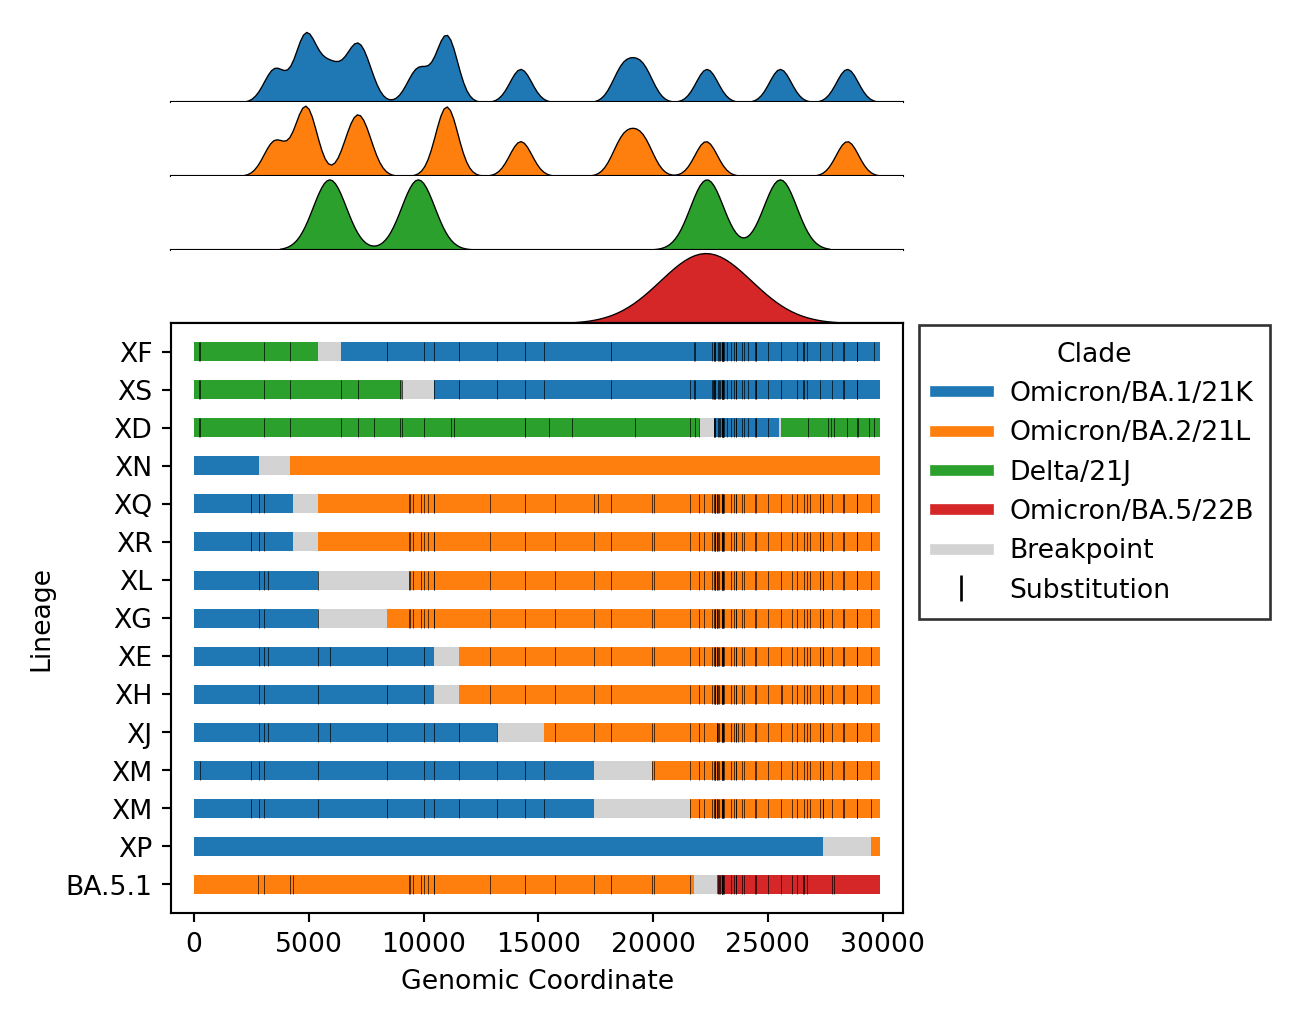
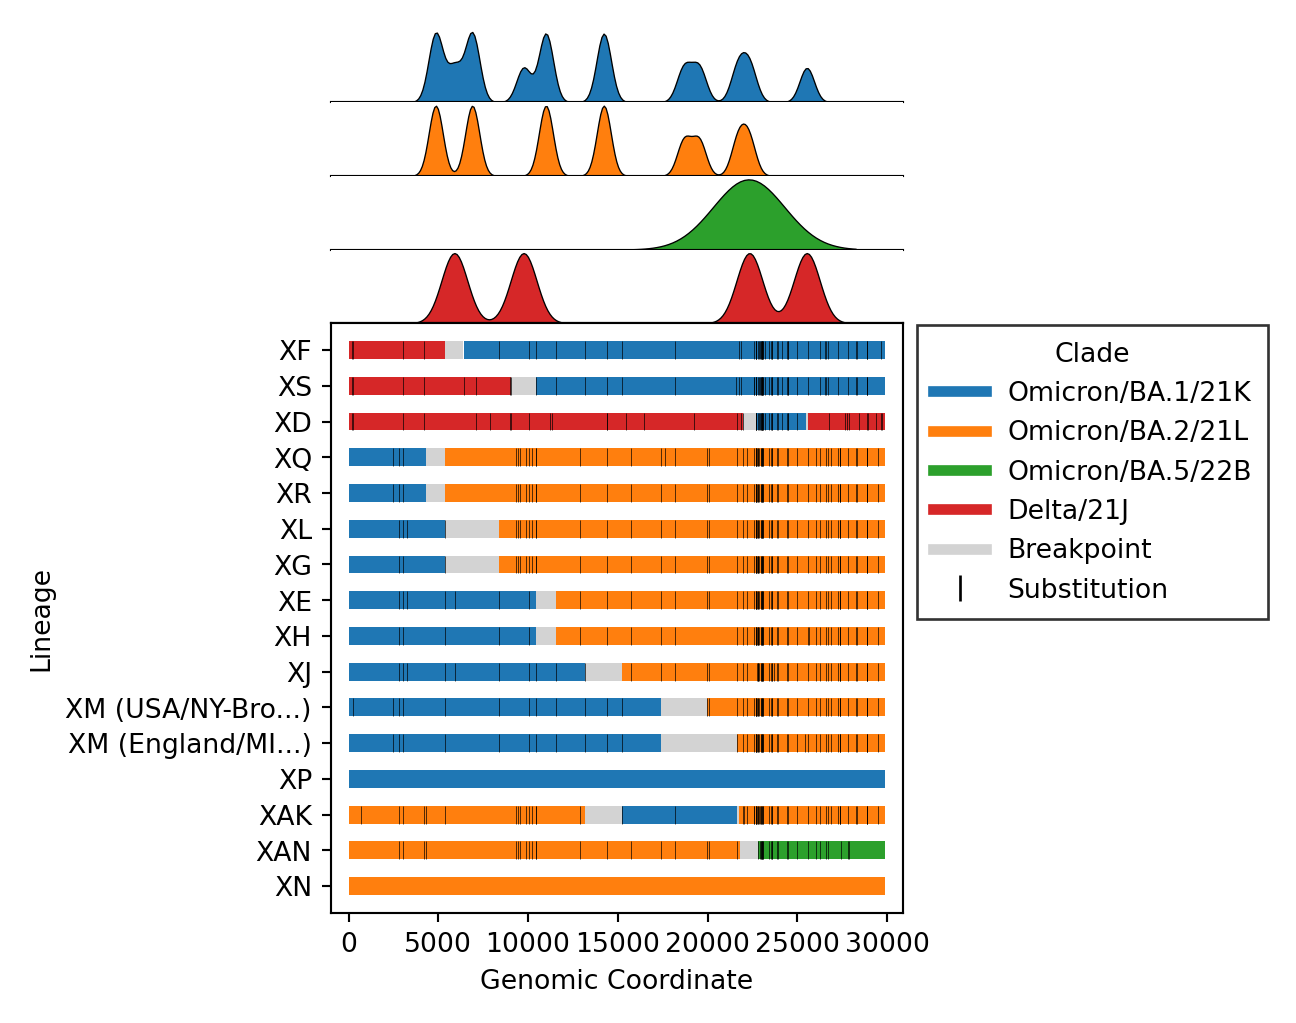
docs: update README and images

diff --git a/README.md b/README.md
@@ -13,8 +13,24 @@ SARS-CoV-2 recombinant sequence detection inspired by [nextstrain/ncov](https://
 
 1. Align sequences and perform clade/lineage assignments with [Nextclade](https://github.com/nextstrain/nextclade).
 1. Identify parental clades and plot recombination breakpoints with [sc2rf](https://github.com/lenaschimmel/sc2rf).
-1. Phylogenetically place recombinant sequences with [UShER](https://github.com/yatisht/usher).
-1. Create spreadssheets and powerpoint slides for reporting.
+1. Create tables, plots, and powerpoint slides for reporting.
+
+A recombinant lineage is defined as a group of sequences with a unique combination of:
+
+- lineage assignment (ex. `XM`)
+- parental clades (ex. `Omicron/21K,Omicron/21L`)
+- parental lineages (ex. `BA.1.1,BA.2.12.1`)
+- breakpoints (ex. `17411:21617`)
+
+Novel recombinants (i.e. undesignated) can be identified by a lineage assignment that does not start with `X*` (ex. BA.1.1) _or_ with a lineage assignment that contains `-like` (ex. `XM-like`). A cluster of sequences may be flagged as `-like` if one of following criteria apply:
+
+1. The lineage assignment by [Nextclade](https://github.com/nextstrain/nextclade) conflicts with the published breakpoints for a designated lineage (`resources/breakpoints.tsv`).
+
+    - Ex. An `XE` assigned sample has breakpoint `11538:12879` which conflicts with the published `XE` breakpoint (`ex. 8394:12879`). This will be renamed `XE-like`.
+
+1. The cluster has 10 or more sequences, which share at least 3 private mutations in common.
+
+    - Ex. A large cluster of sequences (N=50) are assigned `XM`. However, these 50 samples share 5 private mutations `T2470C,C4586T,C9857T,C12085T,C26577G` which do not appear in true `XM` sequences. This will be renamed `XM-like`. Upon further review of the reported matching [pango-designation issues](https://github.com/cov-lineages/pango-designation/issues) (`460,757,781,472,798`), we find this cluster to be a match to `proposed798`.
 
 ## Table of Contents
 
@@ -86,12 +102,12 @@ SARS-CoV-2 recombinant sequence detection inspired by [nextstrain/ncov](https://
     - Slides | `results/tutorial/report/report.pptx`
     - Tables<sup>*</sup> | `results/tutorial/report/report.xlsx`
     - Plots | `results/tutorial/plots`
-    - Breakpoints<sup>†</sup> | `results/tutorial/sc2rf/recombinants.ansi.txt`
-    - Trees<sup>‡</sup> | `results/tutorial/subtrees`
+    - Breakpoints<sup>†</sup>
+        - Between clades (primary) | `results/tutorial/sc2rf/recombinants.ansi.primary.txt`
+        - Within Omicron (secondary) | `results/tutorial/sc2rf/recombinants.ansi.secondary.txt`
 
 <sup>*</sup> Individual tables are available as TSV linelists in `results/tutorial/linelists`.  
 <sup>†</sup> Visualize breakpoints with `less -S` or [Visual Studio ANSI Colors](https://marketplace.visualstudio.com/items?itemName=iliazeus.vscode-ansi).  
-<sup>‡</sup>  Upload Auspice JSON trees to <https://auspice.us/>.
 
 ## Output
 
@@ -119,11 +135,13 @@ Powerpoint/google slides with plots embedded for presenting.
 
 ### Breakpoints
 
-Visualization of breakpoints by lineage.
+Visualization of breakpoints by parental clade and parental lineage.
 
-![breakpoints_output](images/breakpoints_clade.png)
+|                                         Clade                                          |                                         Lineage                                          |
+|:--------------------------------------------------------------------------------------:|:----------------------------------------------------------------------------------------:|
+| ![breakpoints_clade](https://github.com/ktmeaton/ncov-recombinant/raw/dev/images/breakpoints_clade.png) | ![breakpoints_lineage](https://github.com/ktmeaton/ncov-recombinant/raw/dev/images/breakpoints_lineage.png) |
 
-Visualization of breakpoints by parent from [sc2rf](https://github.com/lenaschimmel/sc2rf).
+Visualization of parental alleles from [sc2rf](https://github.com/lenaschimmel/sc2rf).
 
 ![sc2rf_output](images/sc2rf_output.png)
 
@@ -131,7 +149,6 @@ Visualization of breakpoints by parent from [sc2rf](https://github.com/lenaschim
 
 - After completing the tutorial, a good next step is to run the `controls` build.
 - This build analyzes publicly available sequences in [`data/controls`](https://github.com/ktmeaton/ncov-recombinant/tree/master/data/controls), which include recombinant ("positive") and non-recombinant ("negative") sequences.
-- With 1 CPU and 4 GB of memory, this takes ~30 minutes to complete.
 - Instructions for how to include the `controls` in your custom build are in the [configuration](https://github.com/ktmeaton/ncov-recombinant#configuration) section.
 
 1. Preview the steps that are going to be run.
@@ -187,7 +204,7 @@ Visualization of breakpoints by parent from [sc2rf](https://github.com/lenaschim
     ```
 
     > - **Note**: you can add the param `--controls` to add a `controls` build that will run in parallel.
-    > - **Note**: The `controls` build analyzes a dataset of positive and negative recombinant sequences, and adds \~30 min to the runtime.
+    > - **Note**: The `controls` build analyzes a dataset of positive and negative recombinant sequences.
 
 1. Edit `my_profiles/custom/config.yaml`, so that the `jobs` and `default-resources` match your system.
 
@@ -316,58 +333,21 @@ Visualization of breakpoints by parent from [sc2rf](https://github.com/lenaschim
 
     > - **Tip**: Display log of most recent workflow: `cat $(ls -t logs/ncov-recombinant/*.log | head -n 1)`
 
-1. Why is the `usher` rule taking a long time (+10 min)?
-
-    - Placing samples on the global phylogeny is computationally intensive.
-    - Option \#1 is to increase the resources in your profile's `config.yaml` file:
-
-        ```yaml
-        default-resources:
-          - cpus=4
-          - mem_mb=16000
-          - time_min=720
-        ```
-
-    - Option \#2 is to reduce the sample size by excluding negatives n your profile's `builds.yaml` file:
-
-        ```yaml
-        builds:
-          - name: custom
-            base_input: public-latest
-
-            sc2rf:
-              exclude_negatives: true
-        ```
-
-    - Option \#3 for even aggressive sample filtering, is to exclude false positives as well:
-
-        ```yaml
-        builds:
-          - name: custom
-            base_input: public-latest
-
-            sc2rf:
-              exclude_negatives: true
-
-            faToVcf:
-              exclude_false_positives: true
-        ```
-
 1. How do I include more of my custom metadata columns into the linelists?
 
     - By default, the mandatory columns `strain`, `date`, and `country` will appear from your metadata.
-    - Extra columns can be supplied as a parameter to `usher_metadata` in your `builds.yaml` file.
-    - In the following example, the columns `division`, `gisaid_epi_isl`, and `ct` will be extracted from your input `metadata.tsv` file and included in the final linelists.
+    - Extra columns can be supplied as a parameter to `summary` in your `builds.yaml` file.
+    - In the following example, the columns `division`, and `genbank_accession` will be extracted from your input `metadata.tsv` file and included in the final linelists.
 
     ```yaml
-      - name: custom
-        base_input: public-latest
+    - name: controls
+      metadata: data/controls/metadata.tsv
+      sequences: data/controls/sequences.fasta
 
-        usher_metadata:
-          extra_cols:
-            - division
-            - gisaid_epi_isl
-            - ct  
+      summary:
+        extra_cols:
+          - genbank_accession
+          - division
     ```
 
 1. How do I cleanup all the output from a previous run?
@@ -378,17 +358,19 @@ Visualization of breakpoints by parent from [sc2rf](https://github.com/lenaschim
 
 1. Why are "positive" sequences missing from the plots and slides?
 
+    - First check and see if they are in `plots_historical` and `report_historical` which summarize all sequences regardless of collection date.
     - The most likely reason is that these sequences fall outside of the reporting period.
     - The default reporting period is set to 16 weeks before the present.
     - To change it for a build, add custom `plot` parameters to your `builds.yaml` file.
 
     ```yaml
-      - name: custom
-        base_input: public-latest
+    - name: custom
+      metadata: data/custom/metadata.tsv
+      sequences: data/custom/sequences.fasta
 
-        plot:
-            min_date: "2022-01-10"
-            max_date: "2022-04-25" # Optional, can be left blank to use current date
+      plot:
+        min_date: "2022-01-10"
+        max_date: "2022-04-25" # Optional, can be left blank to use current date
     ```
 
 1. Where can I find the plotting data?
@@ -424,7 +406,7 @@ Thanks goes to these wonderful people ([emoji key](https://allcontributors.org/d
   </tr>
   <tr>
     <td align="center"><a href="https://ca.linkedin.com/in/dr-vani-priyadarsini-ikkurti-4a2ab676"><img src="https://media-exp1.licdn.com/dms/image/C5603AQHaG8Xx4QLXSQ/profile-displayphoto-shrink_200_200/0/1569339145568?e=2147483647&v=beta&t=3WrvCciW-x8J3Aw4JHGrWOpuqiikrrGV2KsDaISnHIw" width="100px;" alt=""/><br /><sub><b>Vani Priyadarsini Ikkurthi</b></sub></a><br /><a href="https://github.com/ktmeaton/ncov-recombinant/issues?q=author%3Avanipriyadarsiniikkurthi" title="Bug reports">🐛</a> <a href="https://github.com/ktmeaton/ncov-recombinant/commits?author=vanipriyadarsiniikkurthi" title="Tests">⚠</a></td>
-    <td align="center"><a href="https://ca.linkedin.com/in/mark-horsman-52a14740"><img src="https://media-exp1.licdn.com/dms/image/C5603AQFMpFRB71ZFhw/profile-displayphoto-shrink_200_200/0/1516893279997?e=1658966400&v=beta&t=R9ruztUYe31ZVLNcZrozaJIJsfvTISCpkAby8wLq-D0" width="100px;" alt=""/><br /><sub><b>Mark Horsman</b></sub></a><br /><a href="#ideas-markhorsman" title="Ideas, Planning, & Feedback">🤔</a> <a href="#design-markhorsman" title="Design">🎨</a></td>
+    <td align="center"><a href="https://ca.linkedin.com/in/mark-horsman-52a14740"><img src="https://ui-avatars.com/api/?name=Mark+Horsman" width="100px;" alt=""/><br /><sub><b>Mark Horsman</b></sub></a><br /><a href="#ideas-markhorsman" title="Ideas, Planning, & Feedback">🤔</a> <a href="#design-markhorsman" title="Design">🎨</a></td>
   </tr>
 </table>
 
